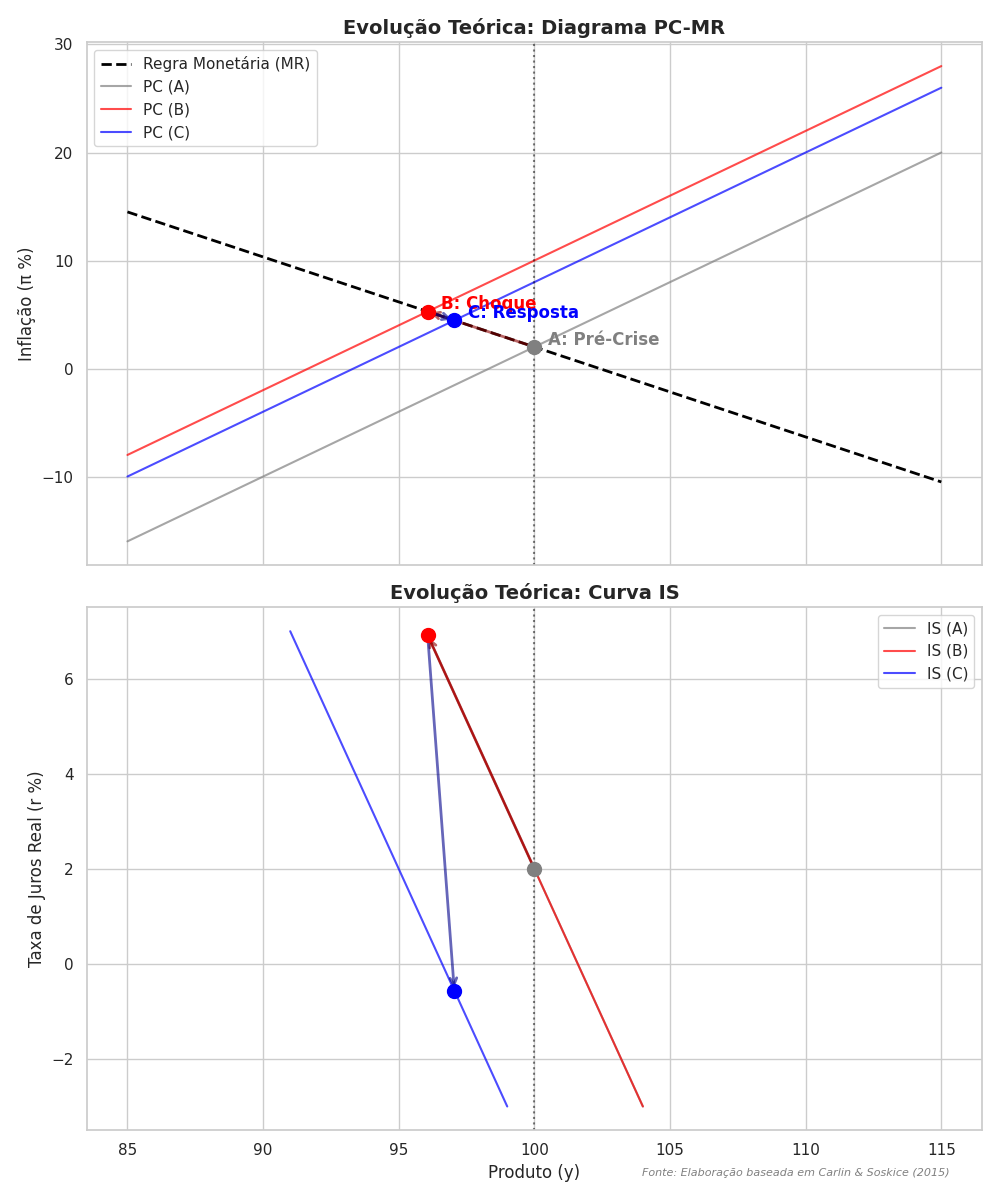
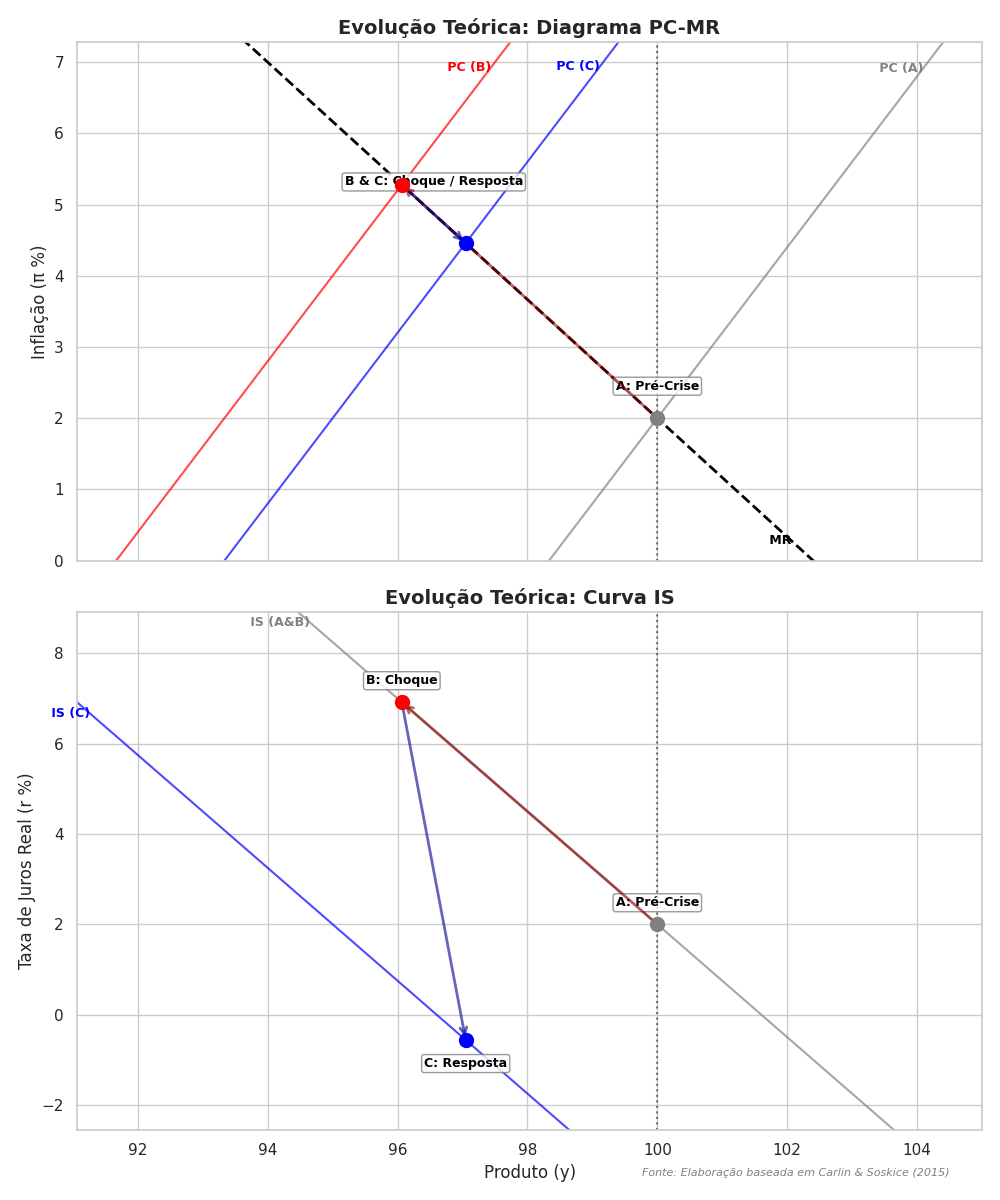
Plots

diff --git a/src/visualizer.py b/src/visualizer.py
@@ -19,7 +19,6 @@ class MacroVisualizer:
         """Formata os rótulos do eixo Y para Milhões, Bilhões ou Trilhões."""
         from matplotlib.ticker import FuncFormatter
         
-        # Filtra valores válidos (não nulos e não infinitos)
         valid_values = [v for v in values if np.isfinite(v)]
         if not valid_values:
             return
@@ -48,8 +47,6 @@ class MacroVisualizer:
     def plot_time_series(self, df, columns, title, ylabel, filename, source="FRED", period_label=None):
         """Plota séries temporais simples com tradução e escala legível."""
         plt.figure(figsize=(12, 6))
-        
-        # Linha em zero em evidência (especialmente útil para o Hiato do Produto)
         plt.axhline(0, color='black', linestyle='-', linewidth=1.5, alpha=0.6, zorder=1)
         
         all_values = []
@@ -79,7 +76,6 @@ class MacroVisualizer:
     def plot_monetary_policy(self, df, title, filename, source="FRED", period_label=None):
         """Gráfico especializado para Política Monetária: Inflação, Juros e Hiato."""
         fig, ax = plt.subplots(figsize=(12, 6))
-        
         plt.axhline(0, color='black', linestyle='-', linewidth=1.2, alpha=0.5)
         
         cols = ['CPI_YoY', 'Policy_Rate', 'Real_Interest_Rate', 'Output_Gap']
@@ -156,65 +152,154 @@ class MacroVisualizer:
         }
         return translations.get(col, col)
 
+    def _label_curve_inside(self, ax, x_vals, y_vals, label, color, x_lim, y_lim, alpha=1.0):
+        """Helper to place a label inside the plot area, aligned to the right."""
+        # Find points within limits
+        mask = (x_vals >= x_lim[0]) & (x_vals <= x_lim[1]) & (y_vals >= y_lim[0]) & (y_vals <= y_lim[1])
+        valid_x = x_vals[mask]
+        valid_y = y_vals[mask]
+        
+        if len(valid_x) == 0:
+            return
+
+        # Target the rightmost 5% of the visible curve
+        idx = -min(5, len(valid_x))
+        x_pos = valid_x[idx]
+        y_pos = valid_y[idx]
+        
+        ax.text(x_pos, y_pos, f' {label}', color=color, fontweight='bold', 
+                va='center', ha='right', alpha=alpha, fontsize=9)
+
+    def _get_grouped_point_labels(self, points, labels_dict, x_scale, y_scale):
+        """Helper to group overlapping equilibrium points."""
+        groups = []
+        used = set()
+        pts_keys = list(points.keys())
+        for i, k1 in enumerate(pts_keys):
+            if k1 in used: continue
+            group = [k1]
+            used.add(k1)
+            for k2 in pts_keys[i+1:]:
+                if k2 in used: continue
+                d = np.sqrt(((points[k1][0] - points[k2][0])/x_scale)**2 + ((points[k1][1] - points[k2][1])/y_scale)**2)
+                if d < 0.15:
+                    group.append(k2)
+                    used.add(k2)
+            groups.append(group)
+        
+        final_labels = {}
+        for g in groups:
+            combined_pos = np.mean([points[k] for k in g], axis=0)
+            combined_label = " & ".join([k for k in g])
+            desc = combined_label + ": " + " / ".join([labels_dict[k].split(': ')[1] for k in g])
+            final_labels[tuple(combined_pos)] = desc
+        return final_labels
+
+    def _group_identical_states(self, states_dict, keys_to_check):
+        groups = []
+        used = set()
+        keys = list(states_dict.keys())
+        for i, k1 in enumerate(keys):
+            if k1 in used: continue
+            group = [k1]
+            used.add(k1)
+            for k2 in keys[i+1:]:
+                if k2 in used: continue
+                is_identical = True
+                for field in keys_to_check:
+                    if states_dict[k1].get(field, 0) != states_dict[k2].get(field, 0):
+                        is_identical = False
+                        break
+                if is_identical:
+                    group.append(k2)
+                    used.add(k2)
+            groups.append(group)
+        return groups
+
     def plot_theoretical_evolution_is_pc_mr(self, model, states, filename):
         """Plota a evolução teórica IS-PC-MR (Estados A, B, C)."""
-        fig, (ax1, ax2) = plt.subplots(2, 1, figsize=(10, 12), sharex=True)
-        y_range = np.linspace(model.y_e - 15, model.y_e + 15, 100)
-        r_range = np.linspace(model.r_star - 5, model.r_star + 5, 100)
+        points_pc_mr = {}
+        points_is = {}
+        for state, params in states.items():
+            y_eq, pi_eq = model.solve_equilibrium_pc_mr(params.get('pi_lagged', model.pi_T), params.get('pc_shift', 0))
+            points_pc_mr[state] = (y_eq, pi_eq)
+            r_eq = model.r_star + (model.y_e + params.get('is_shift', 0) - y_eq) / model.a
+            points_is[state] = (y_eq, r_eq)
+
+        all_y = [p[0] for p in points_pc_mr.values()] + [model.y_e]
+        all_pi = [p[1] for p in points_pc_mr.values()] + [model.pi_T]
+        all_r = [p[1] for p in points_is.values()] + [model.r_star]
         
+        y_lim = (min(all_y) - 5, max(all_y) + 5)
+        pi_lim = (min(all_pi) - 2, max(all_pi) + 2)
+        r_lim = (min(all_r) - 2, max(all_r) + 2)
+        
+        y_range = np.linspace(y_lim[0], y_lim[1], 200)
+        r_range = np.linspace(r_lim[0], r_lim[1], 200)
+
+        fig, (ax1, ax2) = plt.subplots(2, 1, figsize=(10, 12), sharex=True)
         colors = {'A': 'gray', 'B': 'red', 'C': 'blue'}
         labels = {'A': 'A: Pré-Crise', 'B': 'B: Choque', 'C': 'C: Resposta'}
-        
-        # PC-MR plot (ax1)
-        mr = model.get_mr_curve(y_range)
-        ax1.plot(y_range, mr, color='black', lw=2, linestyle='--', label='Regra Monetária (MR)')
-        
-        points_pc_mr = {}
-        for state, params in states.items():
-            pc = model.get_pc_curve(y_range, params.get('pi_lagged', model.pi_T), params.get('pc_shift', 0))
-            ax1.plot(y_range, pc, color=colors[state], lw=1.5, alpha=0.7, label=f'PC ({state})')
-            
-            y_eq, pi_eq = model.solve_equilibrium_pc_mr(params.get('pi_lagged', model.pi_T), params.get('pc_shift', 0))
-            ax1.scatter(y_eq, pi_eq, color=colors[state], s=100, zorder=5)
-            ax1.text(y_eq + 0.5, pi_eq + 0.2, labels[state], color=colors[state], fontweight='bold')
-            points_pc_mr[state] = (y_eq, pi_eq)
 
-        # Draw arrows for PC-MR
+        # --- Subplot 1: PC-MR ---
+        mr = model.get_mr_curve(y_range)
+        ax1.plot(y_range, mr, color='black', lw=2, linestyle='--')
+        self._label_curve_inside(ax1, y_range, mr, 'MR', 'black', y_lim, pi_lim)
+        
+        pc_groups = self._group_identical_states(states, ['pi_lagged', 'pc_shift'])
+        for group in pc_groups:
+            state = group[0]
+            params = states[state]
+            pc = model.get_pc_curve(y_range, params.get('pi_lagged', model.pi_T), params.get('pc_shift', 0))
+            ax1.plot(y_range, pc, color=colors[state], lw=1.5, alpha=0.7)
+            self._label_curve_inside(ax1, y_range, pc, f"PC ({'&'.join(group)})", colors[state], y_lim, pi_lim)
+            for s in group:
+                ax1.scatter(points_pc_mr[s][0], points_pc_mr[s][1], color=colors[s], s=100, zorder=5)
+
+        grouped_pts = self._get_grouped_point_labels(points_pc_mr, labels, y_lim[1]-y_lim[0], pi_lim[1]-pi_lim[0])
+        for pos, txt in grouped_pts.items():
+            offset = 0.4 if pos[1] >= model.pi_T else -0.6
+            ax1.text(pos[0], pos[1] + offset, txt, color='black', fontweight='bold', ha='center', fontsize=9,
+                     bbox=dict(facecolor='white', alpha=0.8, edgecolor='gray', boxstyle='round,pad=0.2'))
+
         if 'A' in points_pc_mr and 'B' in points_pc_mr:
-            ax1.annotate('', xy=points_pc_mr['B'], xytext=points_pc_mr['A'], 
-                         arrowprops=dict(arrowstyle="->", color='darkred', lw=2, alpha=0.6))
+            ax1.annotate('', xy=points_pc_mr['B'], xytext=points_pc_mr['A'], arrowprops=dict(arrowstyle="->", color='darkred', lw=2, alpha=0.6))
         if 'B' in points_pc_mr and 'C' in points_pc_mr:
-            ax1.annotate('', xy=points_pc_mr['C'], xytext=points_pc_mr['B'], 
-                         arrowprops=dict(arrowstyle="->", color='darkblue', lw=2, alpha=0.6))
+            ax1.annotate('', xy=points_pc_mr['C'], xytext=points_pc_mr['B'], arrowprops=dict(arrowstyle="->", color='darkblue', lw=2, alpha=0.6))
 
         ax1.axvline(model.y_e, color='black', linestyle=':', alpha=0.5)
         ax1.set_ylabel('Inflação (π %)')
+        ax1.set_ylim(pi_lim)
         ax1.set_title('Evolução Teórica: Diagrama PC-MR', fontsize=14, fontweight='bold')
-        ax1.legend()
 
-        # IS plot (ax2)
-        points_is = {}
-        for state, params in states.items():
+        # --- Subplot 2: IS ---
+        is_groups = self._group_identical_states(states, ['is_shift'])
+        for group in is_groups:
+            state = group[0]
+            params = states[state]
             y_is = model.get_is_curve(r_range, params.get('is_shift', 0))
-            ax2.plot(y_is, r_range, color=colors[state], lw=1.5, alpha=0.7, label=f'IS ({state})')
-            
-            y_curr = points_pc_mr[state][0]
-            r_eq = model.r_star + (model.y_e + params.get('is_shift', 0) - y_curr) / model.a
-            ax2.scatter(y_curr, r_eq, color=colors[state], s=100, zorder=5)
-            points_is[state] = (y_curr, r_eq)
+            ax2.plot(y_is, r_range, color=colors[state], lw=1.5, alpha=0.7)
+            self._label_curve_inside(ax2, y_is, r_range, f"IS ({'&'.join(group)})", colors[state], y_lim, r_lim)
+            for s in group:
+                ax2.scatter(points_is[s][0], points_is[s][1], color=colors[s], s=100, zorder=5)
+
+        grouped_is_pts = self._get_grouped_point_labels(points_is, labels, y_lim[1]-y_lim[0], r_lim[1]-r_lim[0])
+        for pos, txt in grouped_is_pts.items():
+            offset = 0.4 if pos[1] >= model.r_star else -0.6
+            ax2.text(pos[0], pos[1] + offset, txt, color='black', fontweight='bold', ha='center', fontsize=9,
+                     bbox=dict(facecolor='white', alpha=0.8, edgecolor='gray', boxstyle='round,pad=0.2'))
 
         if 'A' in points_is and 'B' in points_is:
-            ax2.annotate('', xy=points_is['B'], xytext=points_is['A'], 
-                         arrowprops=dict(arrowstyle="->", color='darkred', lw=2, alpha=0.6))
+            ax2.annotate('', xy=points_is['B'], xytext=points_is['A'], arrowprops=dict(arrowstyle="->", color='darkred', lw=2, alpha=0.6))
         if 'B' in points_is and 'C' in points_is:
-            ax2.annotate('', xy=points_is['C'], xytext=points_is['B'], 
-                         arrowprops=dict(arrowstyle="->", color='darkblue', lw=2, alpha=0.6))
+            ax2.annotate('', xy=points_is['C'], xytext=points_is['B'], arrowprops=dict(arrowstyle="->", color='darkblue', lw=2, alpha=0.6))
 
         ax2.axvline(model.y_e, color='black', linestyle=':', alpha=0.5)
         ax2.set_xlabel('Produto (y)')
         ax2.set_ylabel('Taxa de Juros Real (r %)')
+        ax2.set_ylim(r_lim)
+        ax2.set_xlim(y_lim)
         ax2.set_title('Evolução Teórica: Curva IS', fontsize=14, fontweight='bold')
-        ax2.legend()
         
         self._add_source(plt.gca(), "Fonte: Elaboração baseada em Carlin & Soskice (2015)")
         plt.tight_layout()
@@ -223,37 +308,68 @@ class MacroVisualizer:
 
     def plot_theoretical_evolution_ad_bt_eru(self, model, states, filename):
         """Plota a evolução teórica AD-BT-ERU (Estados A, B, C)."""
-        fig, ax = plt.subplots(figsize=(10, 8))
-        y_range = np.linspace(model.y_e - 15, model.y_e + 15, 100)
-        
-        colors = {'A': 'gray', 'B': 'red', 'C': 'blue'}
-        labels = {'A': 'A: Pré-Crise', 'B': 'B: Choque', 'C': 'C: Resposta'}
-
+        points_eq = {}
         for state, params in states.items():
-            ad = model.get_ad_curve(y_range, params.get('ad_shift', 0))
-            bt = model.get_bt_curve(y_range, params.get('bt_shift', 0))
-            eru = model.get_eru_curve(y_range, params.get('eru_shift', 0))
-            
-            ax.plot(y_range, ad, color=colors[state], lw=1.5, alpha=0.6, label=f'AD ({state})')
-            ax.plot(y_range, bt, color=colors[state], lw=1, linestyle='--', alpha=0.4)
-            ax.plot(y_range, eru, color=colors[state], lw=1, linestyle=':', alpha=0.4)
-            
             slope_ad = 1 / (model.phi * 10)
             slope_eru = model.gamma / 10
             y_eq = model.y_e + (params.get('eru_shift', 0) - params.get('ad_shift', 0)) / (slope_ad + slope_eru)
             q_eq = model.get_ad_curve(y_eq, params.get('ad_shift', 0))
+            points_eq[state] = (y_eq, q_eq)
+
+        all_y = [p[0] for p in points_eq.values()] + [model.y_e]
+        all_q = [p[1] for p in points_eq.values()] + [model.q_bar]
+        
+        y_lim = (min(all_y) - 10, max(all_y) + 10)
+        q_lim = (min(all_q) - 1.5, max(all_q) + 1.5)
+        y_range = np.linspace(y_lim[0], y_lim[1], 200)
+
+        fig, ax = plt.subplots(figsize=(10, 8))
+        colors = {'A': 'gray', 'B': 'red', 'C': 'blue'}
+        labels = {'A': 'A: Pré-Crise', 'B': 'B: Choque', 'C': 'C: Resposta'}
+
+        ad_groups = self._group_identical_states(states, ['ad_shift'])
+        for group in ad_groups:
+            state = group[0]
+            ad = model.get_ad_curve(y_range, states[state].get('ad_shift', 0))
+            ax.plot(y_range, ad, color=colors[state], lw=2, alpha=0.7)
+            self._label_curve_inside(ax, y_range, ad, f"AD ({'&'.join(group)})", colors[state], y_lim, q_lim)
+
+        bt_groups = self._group_identical_states(states, ['bt_shift'])
+        for group in bt_groups:
+            state = group[0]
+            bt = model.get_bt_curve(y_range, states[state].get('bt_shift', 0))
+            ax.plot(y_range, bt, color=colors[state], lw=1.2, linestyle='--', alpha=0.5)
+            self._label_curve_inside(ax, y_range, bt, f"BT ({'&'.join(group)})", colors[state], y_lim, q_lim, alpha=0.6)
+
+        eru_groups = self._group_identical_states(states, ['eru_shift'])
+        for group in eru_groups:
+            state = group[0]
+            eru = model.get_eru_curve(y_range, states[state].get('eru_shift', 0))
+            ax.plot(y_range, eru, color=colors[state], lw=1.2, linestyle=':', alpha=0.5)
+            self._label_curve_inside(ax, y_range, eru, f"ERU ({'&'.join(group)})", colors[state], y_lim, q_lim, alpha=0.6)
+
+        for s, pos in points_eq.items():
+            ax.scatter(pos[0], pos[1], color=colors[s], s=100, zorder=5)
             
-            ax.scatter(y_eq, q_eq, color=colors[state], s=100, zorder=5)
-            ax.text(y_eq + 0.5, q_eq, labels[state], color=colors[state], fontweight='bold')
+        grouped_pts = self._get_grouped_point_labels(points_eq, labels, y_lim[1]-y_lim[0], q_lim[1]-q_lim[0])
+        for pos, txt in grouped_pts.items():
+            offset = 0.2 if pos[1] >= model.q_bar else -0.3
+            ax.text(pos[0], pos[1] + offset, txt, color='black', fontweight='bold', ha='center', fontsize=9,
+                     bbox=dict(facecolor='white', alpha=0.8, edgecolor='gray', boxstyle='round,pad=0.2'))
+
+        if 'A' in points_eq and 'B' in points_eq:
+            ax.annotate('', xy=points_eq['B'], xytext=points_eq['A'], arrowprops=dict(arrowstyle="->", color='darkred', lw=2, alpha=0.6))
+        if 'B' in points_eq and 'C' in points_eq:
+            ax.annotate('', xy=points_eq['C'], xytext=points_eq['B'], arrowprops=dict(arrowstyle="->", color='darkblue', lw=2, alpha=0.6))
 
         ax.axvline(model.y_e, color='black', linestyle=':', alpha=0.5)
         ax.set_xlabel('Produto (y)')
         ax.set_ylabel('Taxa de Câmbio Real (q)')
+        ax.set_xlim(y_lim)
+        ax.set_ylim(q_lim)
         ax.set_title('Evolução Teórica: Modelo AD-BT-ERU', fontsize=15, fontweight='bold')
-        ax.legend()
         
         self._add_source(ax, "Fonte: Elaboração baseada em Carlin & Soskice (2015)")
         plt.tight_layout()
         plt.savefig(f"{self.output_dir}/{filename}")
         plt.close()
-

diff --git a/report/1_crise_do_petroleo.md b/report/1_crise_do_petroleo.md
@@ -6,16 +6,17 @@ Na década de 1970, a Coreia do Sul implementou o ambicioso plano de **Industria
 ## 2. Impactos Econômicos e Mecânica dos Choques (Item 3)
 
 ### O Choque de Oferta (Estado A → B)
-O aumento dos preços do petróleo em 1973 e 1979 representou um **choque de oferta negativo clássico**.
-*   **Curva PC:** O aumento dos custos de insumos deslocou a **Curva de Phillips (PC) para cima**, saltando de uma inflação de ~7% para **29,2% em 1974**.
-*   **Curva ERU/PS:** O custo energético reduziu o lucro das empresas, deslocando a curva **PS para baixo**. Como resultado, o salário real viável caiu, movendo a **ERU para a esquerda** e reduzindo o produto potencial sustentável ($y_e \rightarrow y_e'$).
-*   **Resultado:** Estagflação severa, com o PIB real caindo em 1980 pela primeira vez na história moderna (-1,5%).
+O aumento dos preços do petróleo em 1973 e 1979 representou um **choque de oferta negativo clássico**, afetando o lado da produção.
+*   **Curva PC:** O aumento dos custos de insumos importados deslocou a **Curva de Phillips (PC) para cima**, refletindo que, para qualquer nível de produto, a inflação agora seria maior. Isso é visível no salto da inflação para **29,2% em 1974**.
+*   **Curva ERU/PS:** No modelo de economia aberta, o custo energético reduz a margem de lucro das empresas para um dado salário real. Isso desloca a curva **PS (Price-Setting) para baixo**. Como consequência, o equilíbrio no mercado de trabalho ocorre em um nível de produto menor, movendo a **ERU (Equilibrium Real Wage) para a esquerda**.
+*   **Resultado:** O produto potencial sustentável ($y_e$) foi reduzido, gerando estagflação severa. O PIB real caiu em 1980 pela primeira vez na história moderna (-1,5%).
 
 ### Resposta de Política e Estabilização (Estado B → C)
-A Coreia inicialmente tentou "acomodar" o choque para não parar as obras da HCI.
-*   **Ação Governamental (Fiscal):** O governo manteve o investimento ($I$) alto via subsídios, tentando segurar a curva **IS** à direita do novo equilíbrio, o que alimentou a inflação.
-*   **O Decreto de 3 de Agosto (1972):** Medida drástica que resgatou as Chaebols da insolvência ao congelar dívidas no mercado informal, permitindo que a oferta (PS) não colapsasse totalmente por falências em massa.
-*   **Aparato Monetário (BC):** Após 1980, houve uma mudança drástica na **Regra Monetária (MR)**. O Banco da Coreia (BoK) elevou os juros nominais para **21%** (Estado C), movendo a economia ao longo da MR para reancorar as expectativas e trazer a inflação para o patamar de 3% em 1984.
+A Coreia inicialmente tentou "acomodar" o choque para não parar as obras da HCI, mantendo uma política expansionista.
+*   **Ação Governamental (Fiscal):** O governo manteve o investimento ($I$) alto via subsídios e crédito direcionado às **Chaebols**, segurando a curva **IS** à direita do novo equilíbrio. Embora tenha preservado a capacidade industrial, essa ação deslocou a economia para pontos de inflação ainda mais alta na curva PC.
+*   **O Decreto de 3 de Agosto (1972):** Esta intervenção radical atuou na solvência das empresas, permitindo que a curva **PS** não colapsasse totalmente por falências em massa, preservando o lado da oferta.
+*   **Aparato Monetário (BC):** A virada ocorreu com o **Plano de Estabilização Abrangente (CSP)**. O Banco da Coreia (BoK) elevou os juros nominais para **21%** (Estado C). No modelo, o BC "subiu" pela **Regra Monetária (MR)**, aceitando uma recessão temporária para quebrar a inércia inflacionária e trazer a inflação para o patamar de 3% em 1984.
+
 
 ## 3. Desequilíbrios Macroeconômicos e Financeiros
 *   **Setor Externo:** O custo das importações de energia gerou déficits profundos na **Balança de Conta Corrente**. A Coreia respondeu com uma **maxidesvalorização de 20% no Won** em 1980, deslocando a curva **AD** para cima via ganhos de competitividade externa ($q \uparrow$).

diff --git a/report/3_pandemia_covid19.md b/report/3_pandemia_covid19.md
@@ -5,16 +5,17 @@ A pandemia de COVID-19 representou um desafio macroeconômico inédito para a Co
 
 ## 2. Impactos Econômicos e Mecânica dos Choques (Item 3)
 
-### O Choque Duplo (Estado A → B)
-*   **Curva IS:** No 1º tri de 2020, o consumo das famílias caiu de **225 para 211 trilhões de Won**, deslocando a curva **IS para a esquerda**.
-*   **Curva PC:** A pandemia também gerou uma inflação de custos devido à ruptura das cadeias produtivas globais, deslocando a curva **PC para cima**. O CPI YoY saltou para **6,3% em julho de 2022**.
-*   **Setores:** O setor de serviços foi o mais afetado pelo isolamento, enquanto o setor industrial e de alta tecnologia (Semicondutores) viu um aumento na demanda global.
+### O Choque Misto (Estado A → B)
+Diferente de 2008, a pandemia representou um choque simultâneo de oferta e demanda.
+*   **Curva IS:** O isolamento social e a incerteza derrubaram o consumo das famílias (**-6,2% no 1º tri de 2020**), deslocando a curva **IS para a esquerda**.
+*   **Curva PC:** A paralisia global das cadeias de suprimento e o aumento nos custos de frete e energia deslocaram a curva **PC para cima**. A inflação subiu para **6,3% em 2022**.
+*   **Impacto Setorial:** Houve uma queda brusca nos serviços, enquanto a demanda por tecnologia e semicondutores (o forte das Chaebols) se manteve e até cresceu.
 
 ### Resposta de Política e Estabilização (Estado B → C)
-A resposta coreana foi marcada pela sofisticação, integrando saúde pública com a economia.
-*   **Política Fiscal e Sanitária (Governo):** A estratégia **K-Bangyeok** financiou um sistema massivo de teste e rastreio, evitando lockdowns totais. Isso manteve a atividade industrial (**PS/ERU estável**). O governo aprovou quatro orçamentos suplementares, deslocando a curva **IS forçadamente para a direita** via auxílios emergenciais.
-*   **Estratégia para as Chaebols (K-Chips Act):** O governo Moon Jae-in lançou o **K-New Deal (Digital e Verde)**, fornecendo créditos fiscais de até 25% para as Chaebols (Samsung, SK) investirem em tecnologia de ponta. Isso visava deslocar a curva **PS para cima** e a **ERU para a direita** no longo prazo, garantindo a liderança tecnológica pós-pandemia.
-*   **Política Monetária (MR):** O BoK cortou o juro para a mínima de **0,25%** em 2020 (Estado B), mas iniciou uma subida rigorosa para **2,0% em 2023** (Estado C) para reancorar as expectativas na **Regra Monetária (MR)** frente ao choque inflacionário.
+A Coreia usou seu espaço fiscal e sanitário para sustentar o lado da oferta e da demanda.
+*   **Política Fiscal e Sanitária (Governo):** A estratégia **K-Bangyeok** impediu lockdowns profundos, mantendo a curva **PS estável**. O governo injetou recursos em auxílios emergenciais em quatro orçamentos sucessivos, deslocando a curva **IS de volta para a direita** (Estado C).
+*   **K-Chips Act e Chaebols:** O foco estratégico no **BIG3** (Semicondutores, Baterias e Bio-saúde) visou garantir a competitividade futura. No modelo, esses incentivos visam deslocar a **PS para cima** e a **ERU para a direita** de forma estrutural, aumentando o produto potencial futuro.
+*   **Política Monetária (MR):** O BoK cortou o juro para **0,25%** no início da crise, mas reviu sua postura rapidamente quando a inflação subiu. Ele elevou a taxa para **2,0% em 2023**, movendo-se preventivamente pela **Regra Monetária (MR)** para controlar as expectativas de longo prazo.
 
 ## 3. Desequilíbrios Macroeconômicos e Financeiros
 *   **Dívida Pública:** Houve um salto na dívida do governo, de **37,7% para 48,5% do PIB**, refletindo o esforço fiscal massivo para sustentar a IS.

diff --git a/report/2_crise_financeira_2008.md b/report/2_crise_financeira_2008.md
@@ -5,16 +5,17 @@ Em 2008, a Coreia do Sul já era uma economia desenvolvida e altamente integrada
 
 ## 2. Impactos Econômicos e Mecânica dos Choques (Item 3)
 
-### O Colapso da Demanda (Estado A → B)
-*   **Curva IS:** A queda drástica nas exportações netas ($X$) deslocou a curva **IS severamente para a esquerda**. O impacto foi imediato: as exportações mensais caíram de **US$ 40 bilhões** para **US$ 23,6 bilhões** em apenas seis meses.
-*   **Curva AD:** No modelo AD-BT-ERU, a queda na renda mundial deslocou a curva **AD para baixo**, abrindo um profundo hiato de produto negativo ($y < y_e$).
-*   **Produção:** A produção industrial caiu de um índice de **83,1** para **64,1**, gerando incerteza sobre a solvência dos grandes grupos.
+### O Colapso da Demanda Externa (Estado A → B)
+O choque de 2008 atingiu a Coreia do Sul via demanda agregada.
+*   **Curva IS:** A queda nas exportações netas ($X$) deslocou a curva **IS severamente para a esquerda**. O impacto nas exportações mensais foi um recuo de 40%, abrindo um hiato de produto negativo profundo ($y < y_e$).
+*   **Curva AD:** No modelo de economia aberta, a queda na demanda mundial deslocou a curva **AD para baixo**. Em um regime de câmbio flutuante, o Won depreciou de **914 para 1.449 Won/USD**, movendo a economia para a direita ao longo da curva **BT** (Estado B), o que amorteceu o colapso.
+*   **Produção e Produção Industrial:** O índice caiu de **83,1 para 64,1**, gerando um choque de confiança.
 
 ### Resposta de Política e Estabilização (Estado B → C)
-A Coreia do Sul respondeu de forma rápida e proativa, utilizando todas as ferramentas macroeconômicas.
-*   **Política Monetária (MR):** O Banco da Coreia (BoK) cortou as taxas nominais de **3,50% para 1,25%**, movendo a economia para baixo pela **curva MR** e estabilizando as expectativas de inflação, que caíram de 5,9% para 1,6%.
-*   **Política Fiscal (Governo):** O governo Lee Myung-bak lançou o **Green New Deal (2009)**, um pacote de **50 trilhões de KRW** focado em infraestrutura e novas tecnologias. Isso deslocou a curva **IS de volta para a direita**, forçando a recuperação em "V".
-*   **Ações com as Chaebols:** O governo aboliu o limite total de investimento cruzado, permitindo que as **Chaebols** (Samsung, Hyundai) usassem seu enorme capital interno para expandir e capturar fatias de mercado deixadas por concorrentes ocidentais em crise.
+A resposta foi rápida e orquestrada entre as autoridades fiscal e monetária.
+*   **Política Monetária (MR):** O Banco da Coreia (BoK) desceu agressivamente pela **curva MR**, cortando juros nominais para **1,25%**. Ao fazer isso, o BC estimula o consumo e investimento doméstico, combatendo a queda da demanda externa.
+*   **Política Fiscal (Governo):** O **Green New Deal (2009)** injetou **50 trilhões de KRW**, deslocando a curva **IS de volta para a direita** (Estado C). Isso permitiu à Coreia ser um dos primeiros países a sair da recessão em 2009.
+*   **Ações Estratégicas com as Chaebols:** Ao flexibilizar as regras de investimento, o governo permitiu que as **Chaebols** (Samsung, Hyundai) aproveitassem a depreciação do câmbio para ganhar mercado global de concorrentes que estavam sob restrição de liquidez severa.
 
 ## 3. Desequilíbrios Macroeconômicos e Financeiros
 *   **Ajuste Cambial:** O Won depreciou de **914 para 1.449 Won/USD**, atuando como um "amortecedor" natural que moveu a economia ao longo da curva **BT** (Estado C). Isso permitiu que o saldo comercial permanecesse positivo, apesar da crise.
